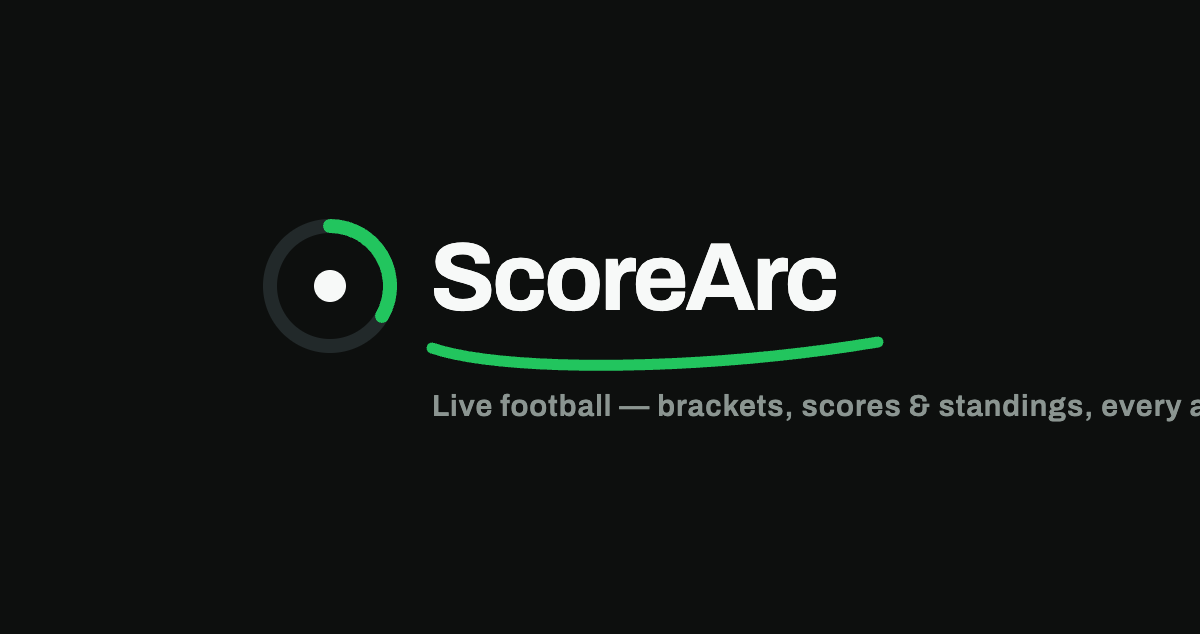
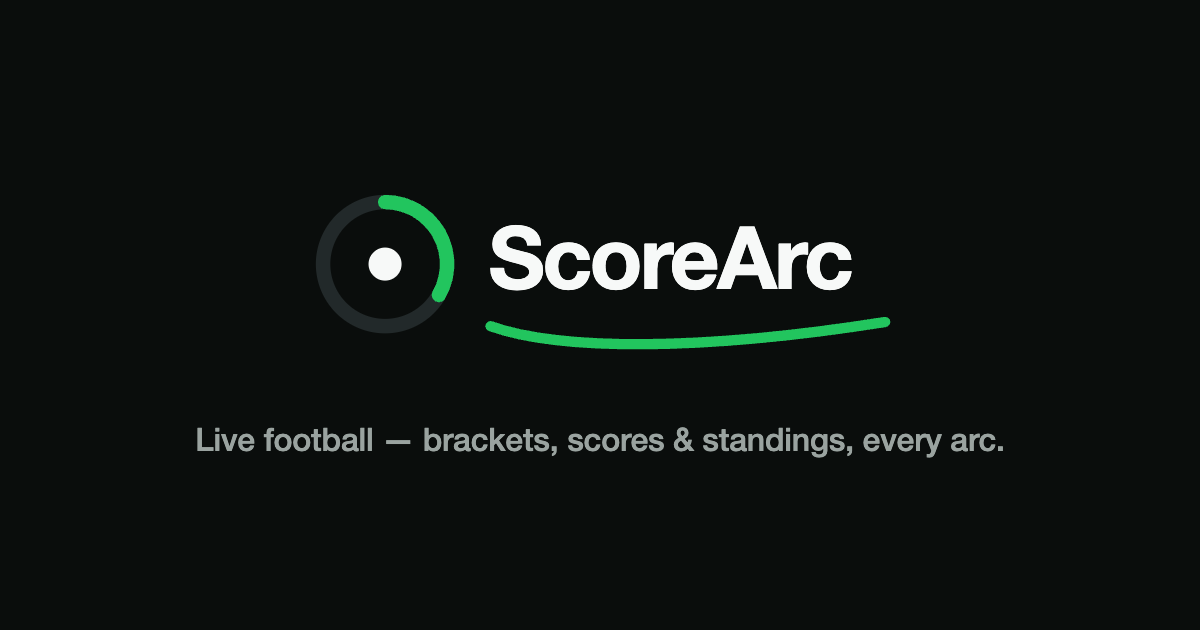
fix: the share card had its tagline clipped mid-word
The delivered scorearc-og-3a.png runs its tagline off the right edge of
its own canvas: it reads 'Live football — brackets, scores & standings,
every a' and stops. WhatsApp was rendering the image faithfully; the
image was wrong. Invisible until somebody shares a link, which is the
worst place to find it.

Regenerated from the same lockup, centred, full sentence, and at
1200x630 -- the standard Open Graph ratio, where the delivered asset
was an odd 634.

The HTML the card is rendered from ships beside it as
public/brand/og-source.html, so the tagline is edited as text rather
than in an image editor and the card cannot drift from what the site
says about itself.

Changed region(s): [[0.1542, 0.3016, 1.0, 0.7238]]

diff --git a/public/brand/og-source.html b/public/brand/og-source.html
@@ -1,0 +1,23 @@
+<!doctype html>
+<!--
+  Source for public/brand/og.png — the card WhatsApp, Twitter and Slack show.
+
+  Kept because the delivered scorearc-og-3a.png had its tagline clipped mid-word
+  at the right edge of the canvas ("...standings, every a"), which is invisible
+  until someone shares a link. Regenerating from this file is one command:
+
+    open this at exactly 1200x630 in a headless browser and screenshot it.
+
+  Change the tagline HERE, not in an image editor, so the card and the site can
+  never disagree about what ScoreArc says it is.
+--><html><head><meta charset="utf-8"><style>
+  html,body{margin:0;padding:0}
+  body{width:1200px;height:630px;background:#0a0d0c;display:flex;flex-direction:column;
+       align-items:center;justify-content:center;gap:34px;
+       font-family:-apple-system,"Helvetica Neue",Helvetica,Arial,sans-serif}
+  .tag{color:#9aa3a0;font-size:32px;font-weight:500;letter-spacing:-.2px;
+       max-width:900px;text-align:center;line-height:1.35}
+</style></head><body>
+  <img src="/brand/scorearc-lockup-3a-dark.svg" style="width:620px;display:block">
+  <div class="tag">Live football — brackets, scores &amp; standings, every arc.</div>
+</body></html>

diff --git a/src/app/layout.tsx b/src/app/layout.tsx
@@ -30,7 +30,7 @@ export const metadata: Metadata = {
     // A static card, not /api/og: the dynamic route is for per-competition
     // shares, and the root link is the one that gets pasted into WhatsApp.
     // metadataBase makes this absolute, which WhatsApp requires.
-    images: [{ url: "/brand/og.png", width: 1200, height: 634, alt: "ScoreArc — Live Football" }],
+    images: [{ url: "/brand/og.png", width: 1200, height: 630, alt: "ScoreArc — Live Football" }],
   },
   twitter: {
     card: "summary_large_image",
